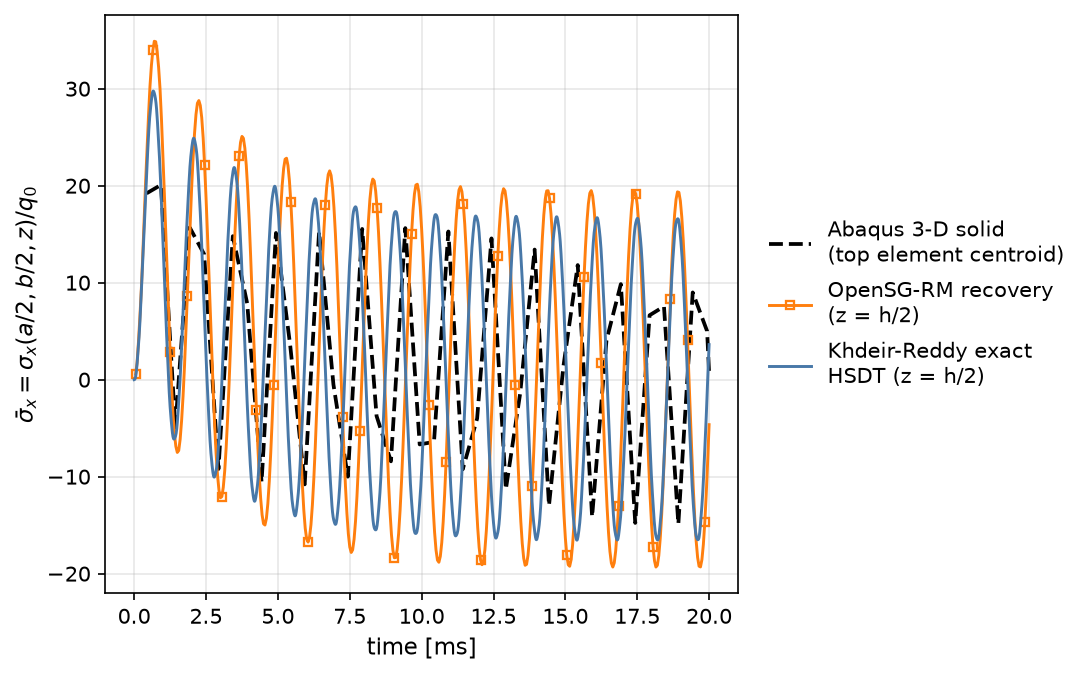
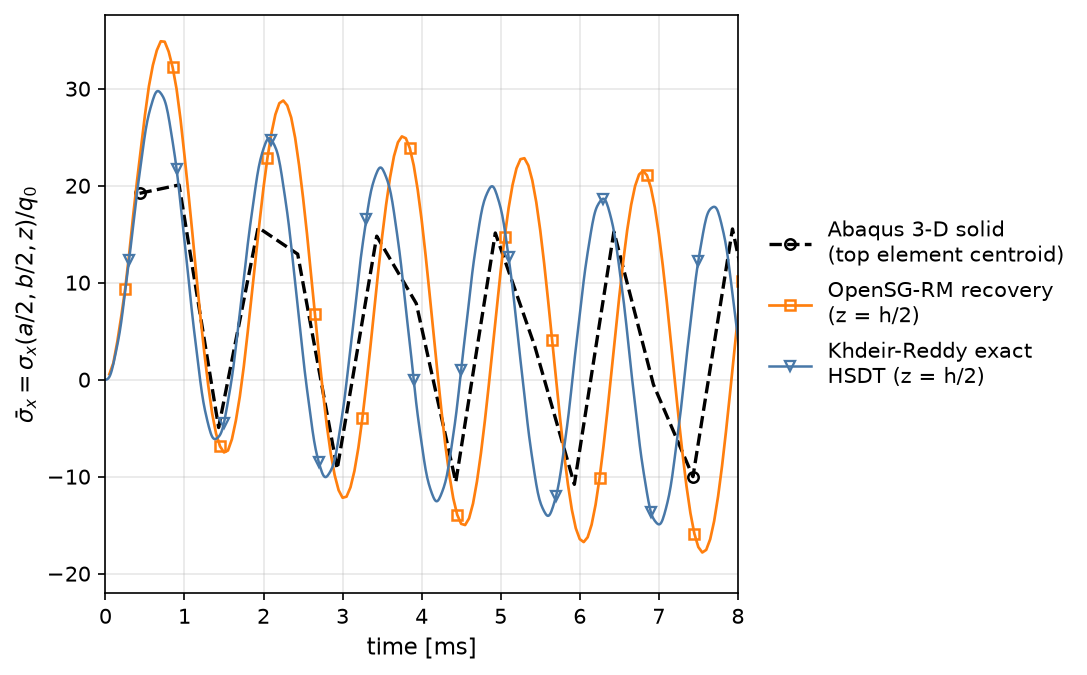
ex2 four-way figures restyled: distinct staggered open markers per model (solid o / RM s / FSDT ^ / HSDT v), histories windowed to the KR-1989 0-8 ms figure window

diff --git a/examples/opensg-rm_dynamic/ex2/compare_ex2.py b/examples/opensg-rm_dynamic/ex2/compare_ex2.py
@@ -158,12 +158,14 @@ def rm_sx_top(fits, t_rm, kind):
     return out / Q0
 
 
-def one_plot(fname, curves, xlabel, ylabel):
+def one_plot(fname, curves, xlabel, ylabel, xlim=None):
     fig, ax = plt.subplots(figsize=(7.4, 4.6))
     for x, y, sty, lab in curves:
         ax.plot(x, y, label=lab, **sty)
     ax.set_xlabel(xlabel, fontsize=11)
     ax.set_ylabel(ylabel, fontsize=11)
+    if xlim is not None:
+        ax.set_xlim(*xlim)
     ax.grid(alpha=0.3)
     ax.legend(loc="center left", bbox_to_anchor=(1.02, 0.5), frameon=False)
     fig.tight_layout()
@@ -171,11 +173,16 @@ def one_plot(fname, curves, xlabel, ylabel):
     plt.close(fig)
 
 
-STY_SOL = dict(ls="--", color="k", lw=1.8)                # 3-D benchmark
-STY_RM = dict(ls="-", marker="s", color="#ff7f0e", lw=1.4, ms=4,
-              mfc="none", mew=1.1, markevery=12)          # OpenSG-RM
-STY_KR = dict(ls="-", color="#4878a8", lw=1.4)            # exact HSDT
-STY_FS = dict(ls="-.", color="#2ca02c", lw=1.4)           # Abaqus FSDT
+# four processes -> four DISTINCT markers, staggered so they never overlap;
+# histories are windowed to 0-8 ms (the KR-1989 figure window) for clarity
+STY_SOL = dict(ls="--", marker="o", color="k", lw=1.6, ms=5, mfc="none",
+               mew=1.2, markevery=(0, 14))                # 3-D benchmark
+STY_RM = dict(ls="-", marker="s", color="#ff7f0e", lw=1.3, ms=5,
+              mfc="none", mew=1.2, markevery=(4, 12))     # OpenSG-RM
+STY_KR = dict(ls="-", marker="v", color="#4878a8", lw=1.2, ms=5,
+              mfc="none", mew=1.1, markevery=(30, 60))    # exact HSDT
+STY_FS = dict(ls="-.", marker="^", color="#2ca02c", lw=1.2, ms=5,
+              mfc="none", mew=1.1, markevery=(8, 12))     # Abaqus FSDT
 NZP = 6                        # solid elements per ply (18 through h)
 
 
@@ -263,7 +270,7 @@ def main():
         curves.append((1e3 * tg, w_ex / 0.0254, STY_KR,
                        "Khdeir-Reddy 1989\nexact HSDT"))
         one_plot("ex2_w_history_%s.png" % kind, curves, "time [ms]",
-                 r"center deflection $w/0.0254$ m")
+                 r"center deflection $w/0.0254$ m", xlim=(0.0, 8.0))
         sx_curves = []
         if os.path.isfile(f_so):
             t_sd, sx_so = solid_sx_top(f_so)
@@ -275,7 +282,8 @@ def main():
                       (1e3 * tg, sx_ex, STY_KR,
                        "Khdeir-Reddy exact\nHSDT (z = h/2)")]
         one_plot("ex2_sx_history_%s.png" % kind, sx_curves, "time [ms]",
-                 r"$\bar\sigma_x = \sigma_x(a/2,b/2,z)/q_0$")
+                 r"$\bar\sigma_x = \sigma_x(a/2,b/2,z)/q_0$",
+                 xlim=(0.0, 8.0))
         # ---- numbers --------------------------------------------------
         lines += ["", "%s pulse -- peak |w| [in = w/0.0254 m]:" % kind]
 
